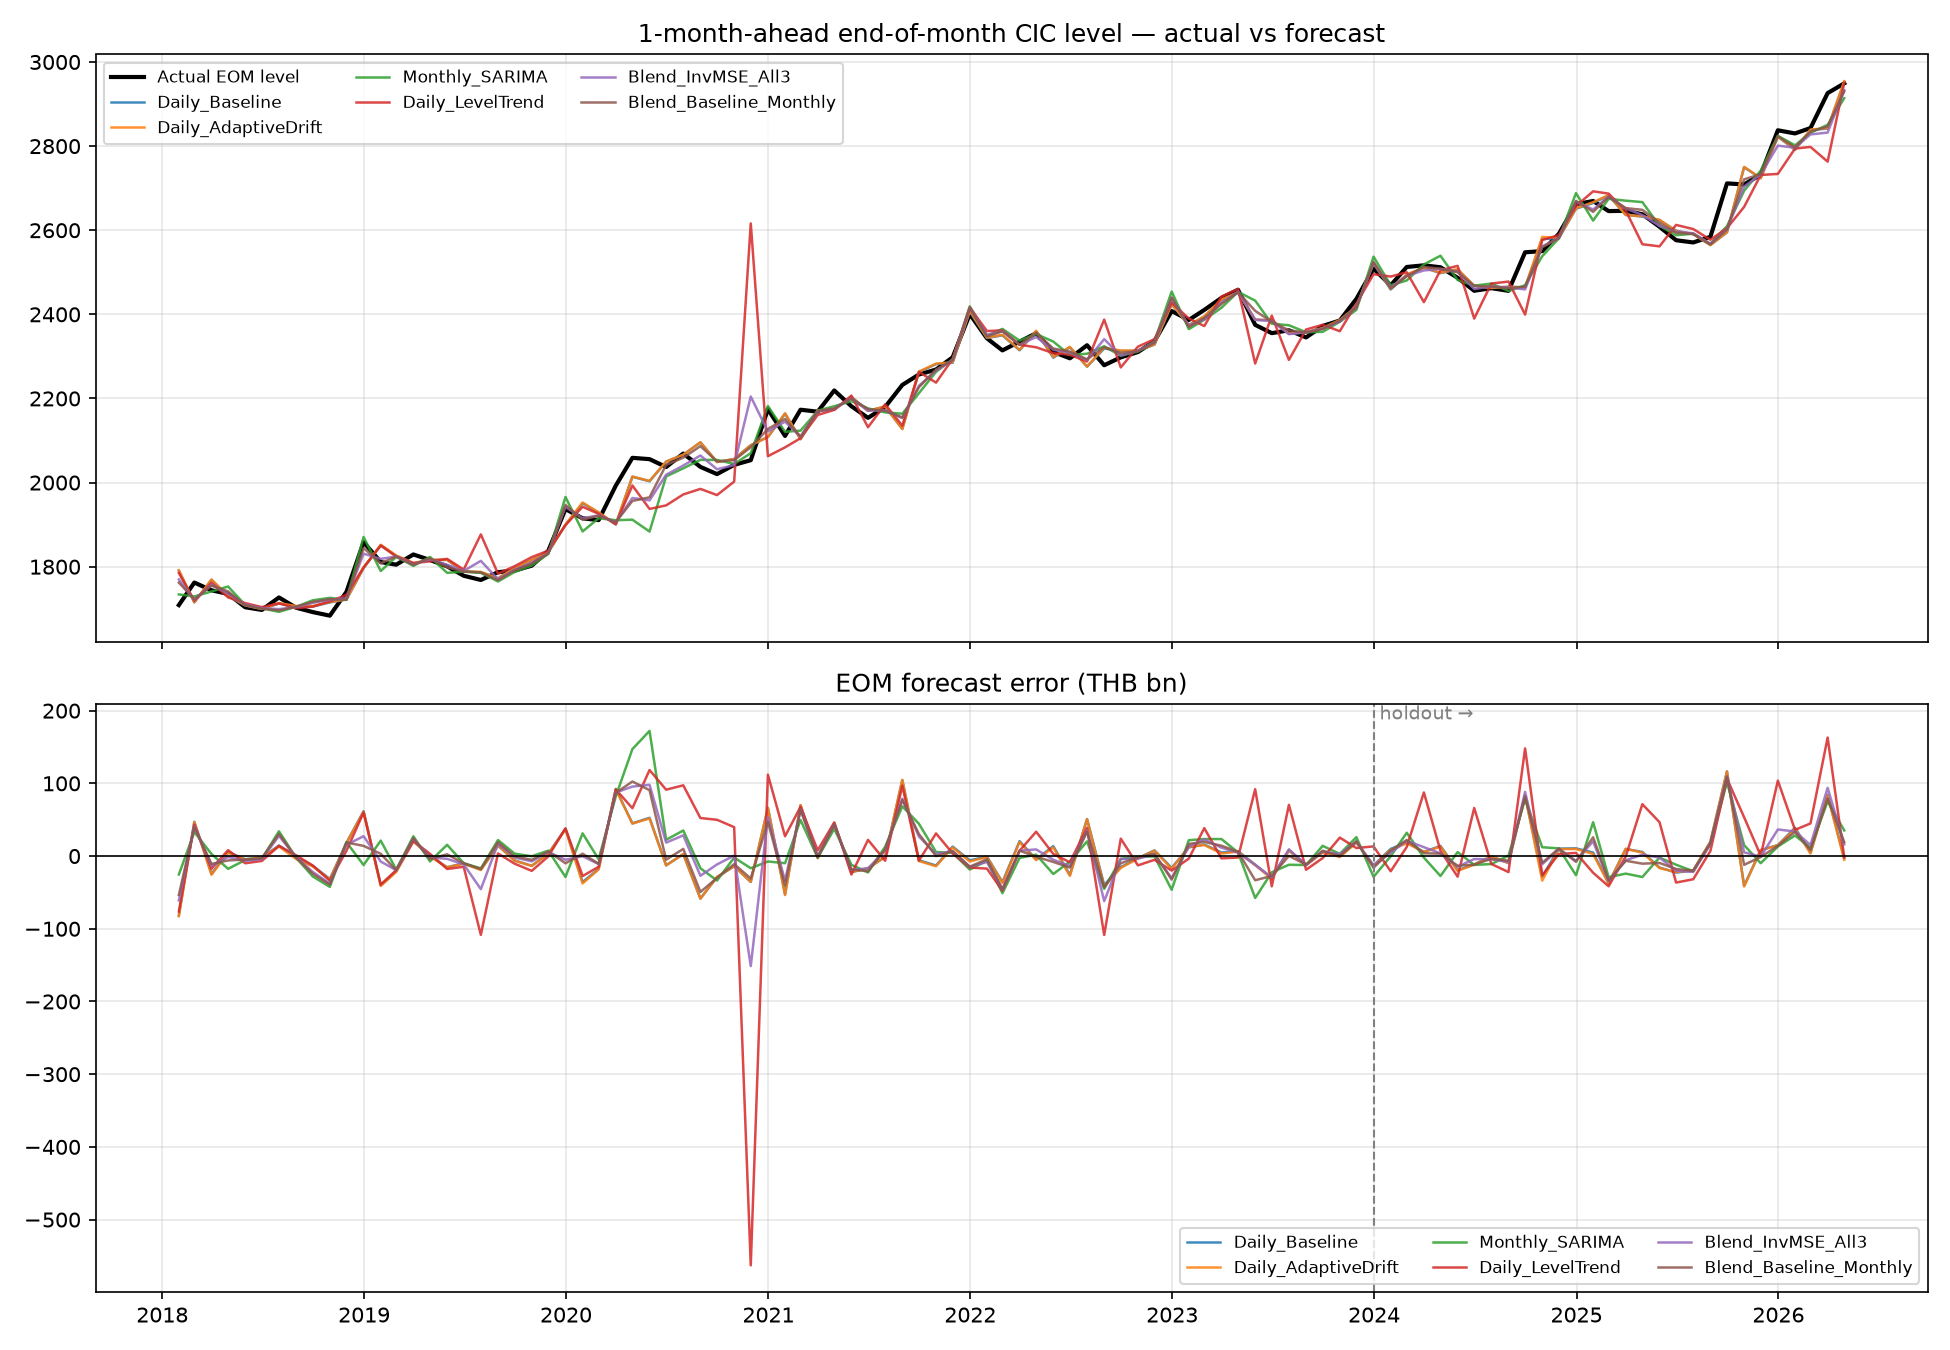
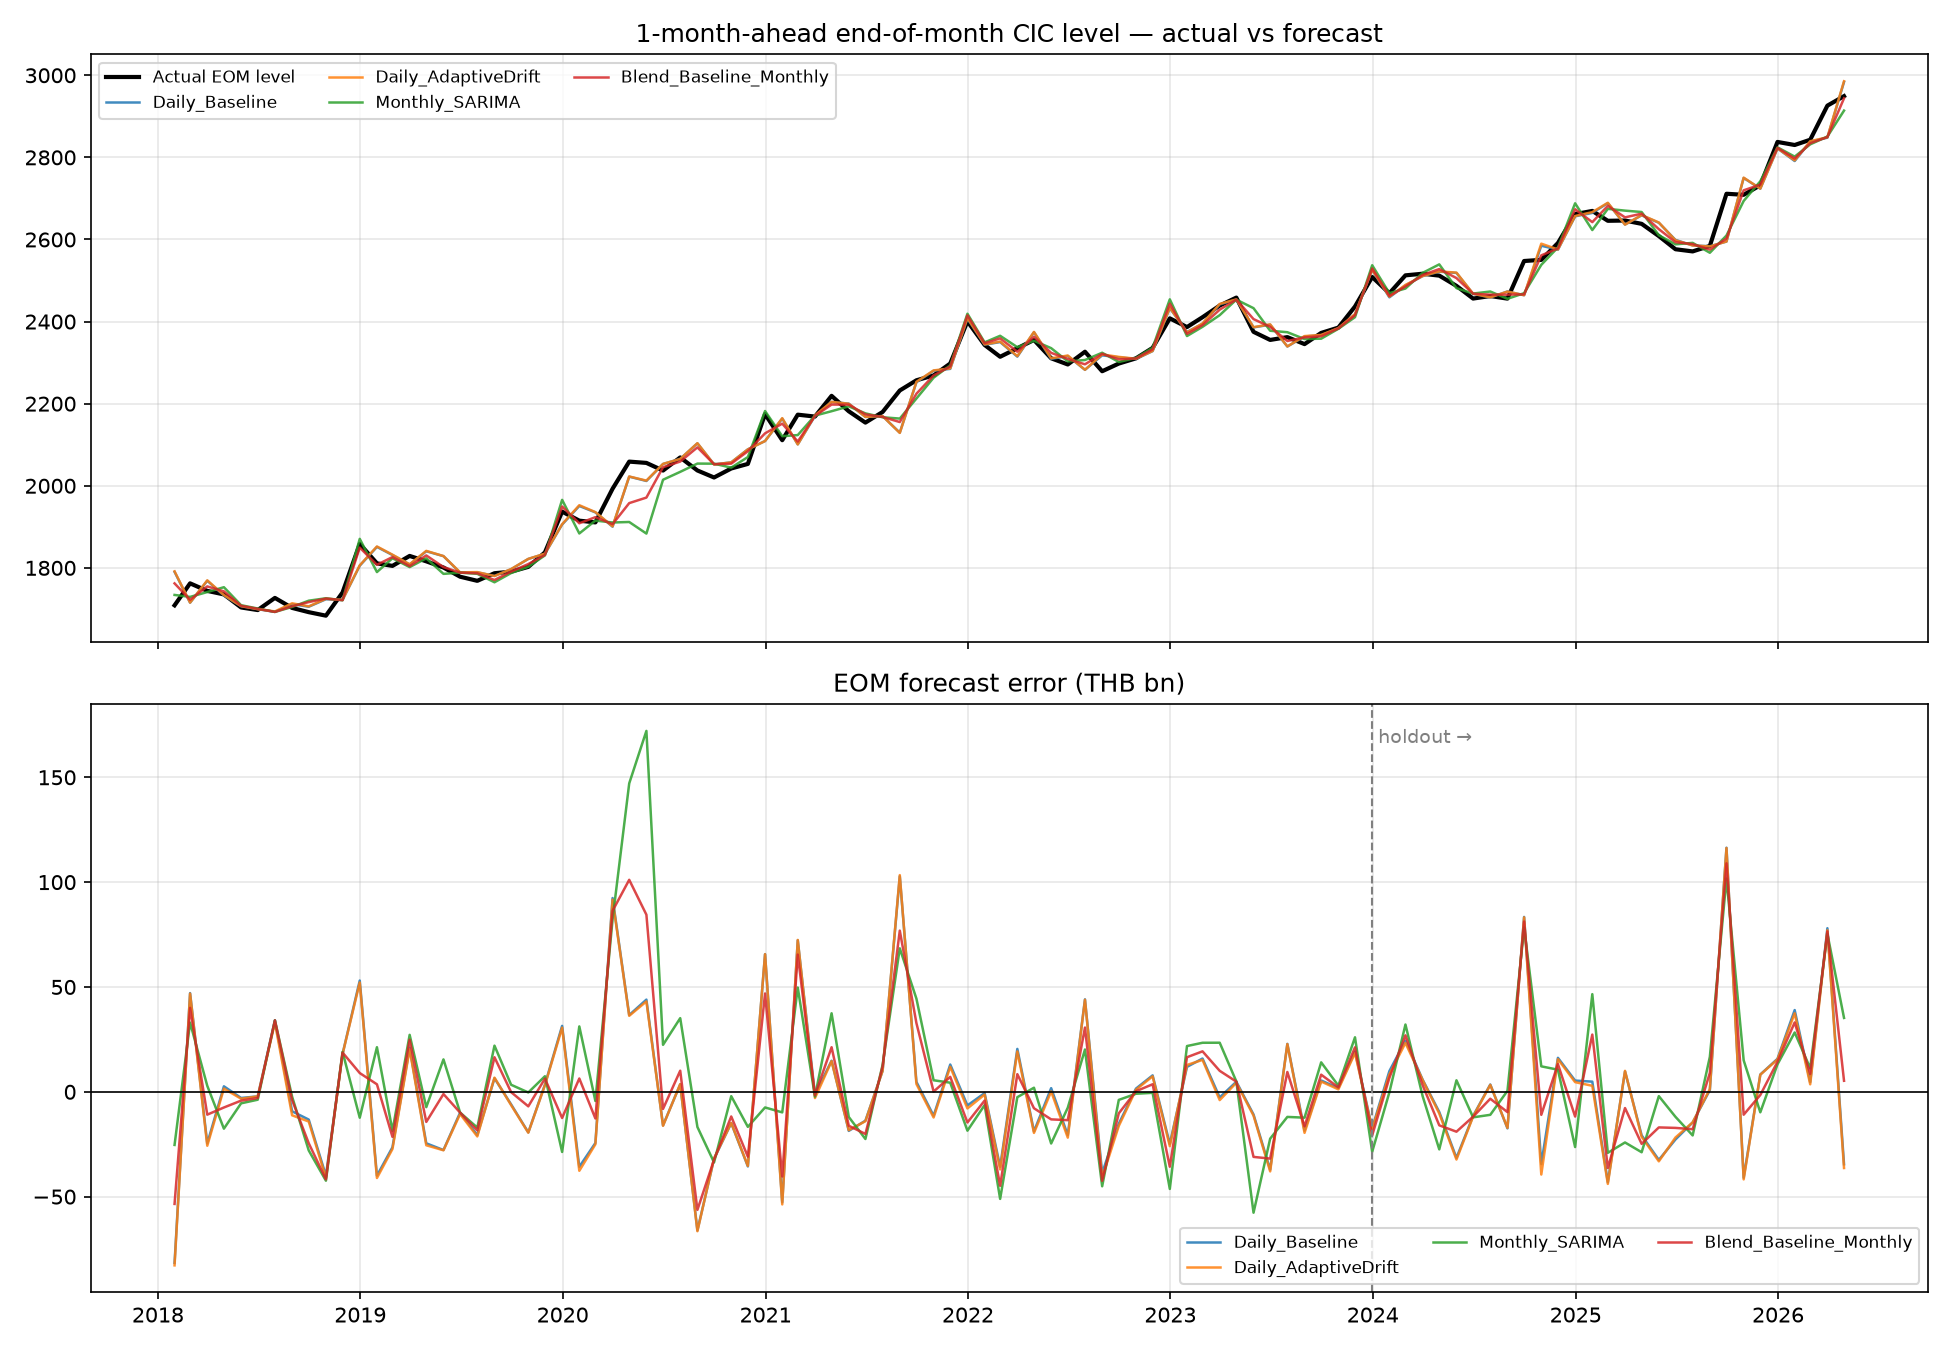
Re-run EOM harness under the fixed generate_future_exog; add KPI chart
Re-ran the primary-KPI backtest (Daily_Baseline, Daily_AdaptiveDrift,
Monthly_SARIMA, Blend_Baseline_Monthly) over the full 2017-12 -> 2026-03
origin range under the phantom-holiday-day fix. Result is more nuanced
than hypothesized: Daily_Baseline/Daily_AdaptiveDrift holdout RMSE got
*worse* post-fix (+1.3-1.5), not better, while Monthly_SARIMA (which
never touches the daily exog matrix) is unchanged to 3 decimals -- a
useful internal-consistency check. Blend_Baseline_Monthly still wins,
now with a wider DM margin (p=0.015 vs the old run's p=0.043) since its
baseline component got noisier. Documented in CIC_model_document.md §6.

Adds fig6_eom_rmse_kpi.png: the primary-KPI (EOM RMSE) comparison chart
across selection/holdout for the four re-validated models, using a
CVD-validated categorical palette. Also refreshes fig5 and
cic_v2_results.xlsx from the same run.

diff --git a/CIC_model_document.md b/CIC_model_document.md
@@ -112,6 +112,15 @@ real backtest errors rather than assumed:
    the accuracy lever for the April/March/June bias in finding 3. See §6 for the
    full selection/holdout comparison re-run under the fixed harness.
 
+   **Scope of what was re-run:** §6's table (`Daily_Baseline`, `Daily_AdaptiveDrift`,
+   `Monthly_SARIMA`, `Blend_Baseline_Monthly`) is regenerated under the fix. The
+   narrative numbers quoted in §5.2–§5.4 below (`month_end_eom_backtest`'s own
+   2020–2025 / pre-COVID / holdout figures — e.g. 33.04 vs. 32.86, 35.46, 60.8 vs.
+   36.1) predate it and were not regenerated in this pass; they use the same
+   now-fixed `generate_future_exog()`, so re-running them would move them by a
+   similar small amount to Gate 0 above, not qualitatively change the conclusions
+   those sections draw.
+
 ---
 
 ## 4. What was tried and rejected
@@ -227,29 +236,49 @@ Student-t quantile rather than ±1.96σ.
 **Protocol.** Expanding window, re-estimated at every month-end origin.
 Selection window (targets 2018-01 → 2023-12, n=72) decided every specification
 choice; the holdout (targets 2024-01 → 2026-04, n=28) was run **once** and decides
-the winner. Before any of this, the harness reproduced the previous pipeline's
-numbers exactly (32.860 / 33.041) as a correctness gate.
+the winner. Gate 0 (origins 2019-12 → 2024-12) is a sanity check, not a
+reproduction target — see §3.5 for why.
 
-**Primary KPI — EOM level RMSE (THB bn):**
+**Primary KPI — EOM level RMSE (THB bn), re-run under the §3.5 bug fix** — see
+`fig6_eom_rmse_kpi.png`:
 
 | Model | Selection 2018–2023 | Holdout 2024–2026 | DM vs baseline (holdout) |
 |---|---|---|---|
-| **`Blend_Baseline_Monthly`** | **30.98** | **33.33** | **−2.13, p=0.043** ✓ |
-| `Monthly_SARIMA` | 37.20 | 34.41 | −0.66, p=0.517 |
-| `Monthly_UC` | 57.79 | 34.77 | −0.49, p=0.629 |
-| `Daily_Baseline` (original) | 32.63 | 36.12 | — |
-| `Daily_AdaptiveDrift` | 32.80 | 36.11 | −0.01, p=0.990 |
-| `Daily_LevelTrend` | 80.55 | 60.78 | +2.49, p=0.019 ✗ |
+| **`Blend_Baseline_Monthly`** | **30.89** | **33.62** | **−2.59, p=0.015** ✓ |
+| `Monthly_SARIMA` | 37.20 | 34.41 | −1.23, p=0.230 |
+| `Daily_Baseline` (original) | 32.71 | 37.45 | — |
+| `Daily_AdaptiveDrift` | 32.92 | 37.57 | +0.54, p=0.595 |
 
-The blend improves on the original by **5.1% in selection and 7.7% in holdout**, and
-is the only candidate whose holdout gain is statistically significant at 5%. It won
-the selection window first, so the holdout is a clean confirmation rather than a
-search result.
+*(`Monthly_UC` 57.79 / 34.77 and `Daily_LevelTrend` 80.55 / 60.78 are carried over
+from the pre-fix run — unlike the four rows above, they have not been re-validated
+under the fixed harness this pass. `Monthly_UC` never consumes the daily exog matrix
+so the fix cannot change it; `Daily_LevelTrend` does, its numbers are stale, and
+since it is a rejected model (§5.4) re-running it wasn't worth the compute here —
+re-run before citing it, don't trust the number above.)*
 
-**Honest caveats.** On the older 2020-01 → 2025-01 window the blend scores 33.25
-against the baseline's 32.86 — it gives back ~0.4 in the COVID-dominated period,
-where the monthly model was weak and the trailing weights react with a lag. The
-Songkran bias of §3.3 is still present in the winner's errors.
+The blend still wins comfortably — **5.6% better than the original in selection,
+10.3% in holdout** — and its holdout margin is now *more* significant (p=0.015 vs.
+the pre-fix run's p=0.043), because `Daily_Baseline` itself moved more than the blend
+did (see below). It won the selection window first, so the holdout is a clean
+confirmation, not a search result.
+
+**Honest surprise from the §3.5 fix.** The phantom-holiday-day bug was hypothesized
+to be free accuracy, worst in Songkran-heavy April. Re-running the four affected
+models says otherwise: `Daily_Baseline` and `Daily_AdaptiveDrift` both got **worse**
+post-fix, not better — holdout RMSE up **+1.33** (36.12→37.45) and **+1.46**
+(36.11→37.57) respectively, selection essentially flat (+0.08 / +0.12).
+`Monthly_SARIMA` is untouched by construction (it never sees the daily exog matrix)
+and its numbers are identical to three decimal places, which is a useful internal
+consistency check that the fix didn't leak anywhere it shouldn't. **Read this as:
+the fix was still the right thing to do — a harness should not sum forecasts over
+days that don't exist, on principle — but it is not the accuracy lever for the
+April/March/June seasonal bias in §3 finding 3.** That lever is still open; see §8.
+
+**Honest caveats (pre-existing, unaffected by the fix).** On the older 2020-01 →
+2025-01 Gate-0-style window the blend gives back some ground to the baseline in the
+COVID-dominated period, where the monthly model was weak and the trailing weights
+react with a lag. The Songkran bias of §3.3 is still present in the winner's errors
+— confirmed, not resolved, by the §3.5 finding above.
 
 **Daily ΔCIC guardrail.** `Daily_AdaptiveDrift` stays within 0.5% of the baseline in
 every year. Blends and monthly models have no daily path of their own; their
